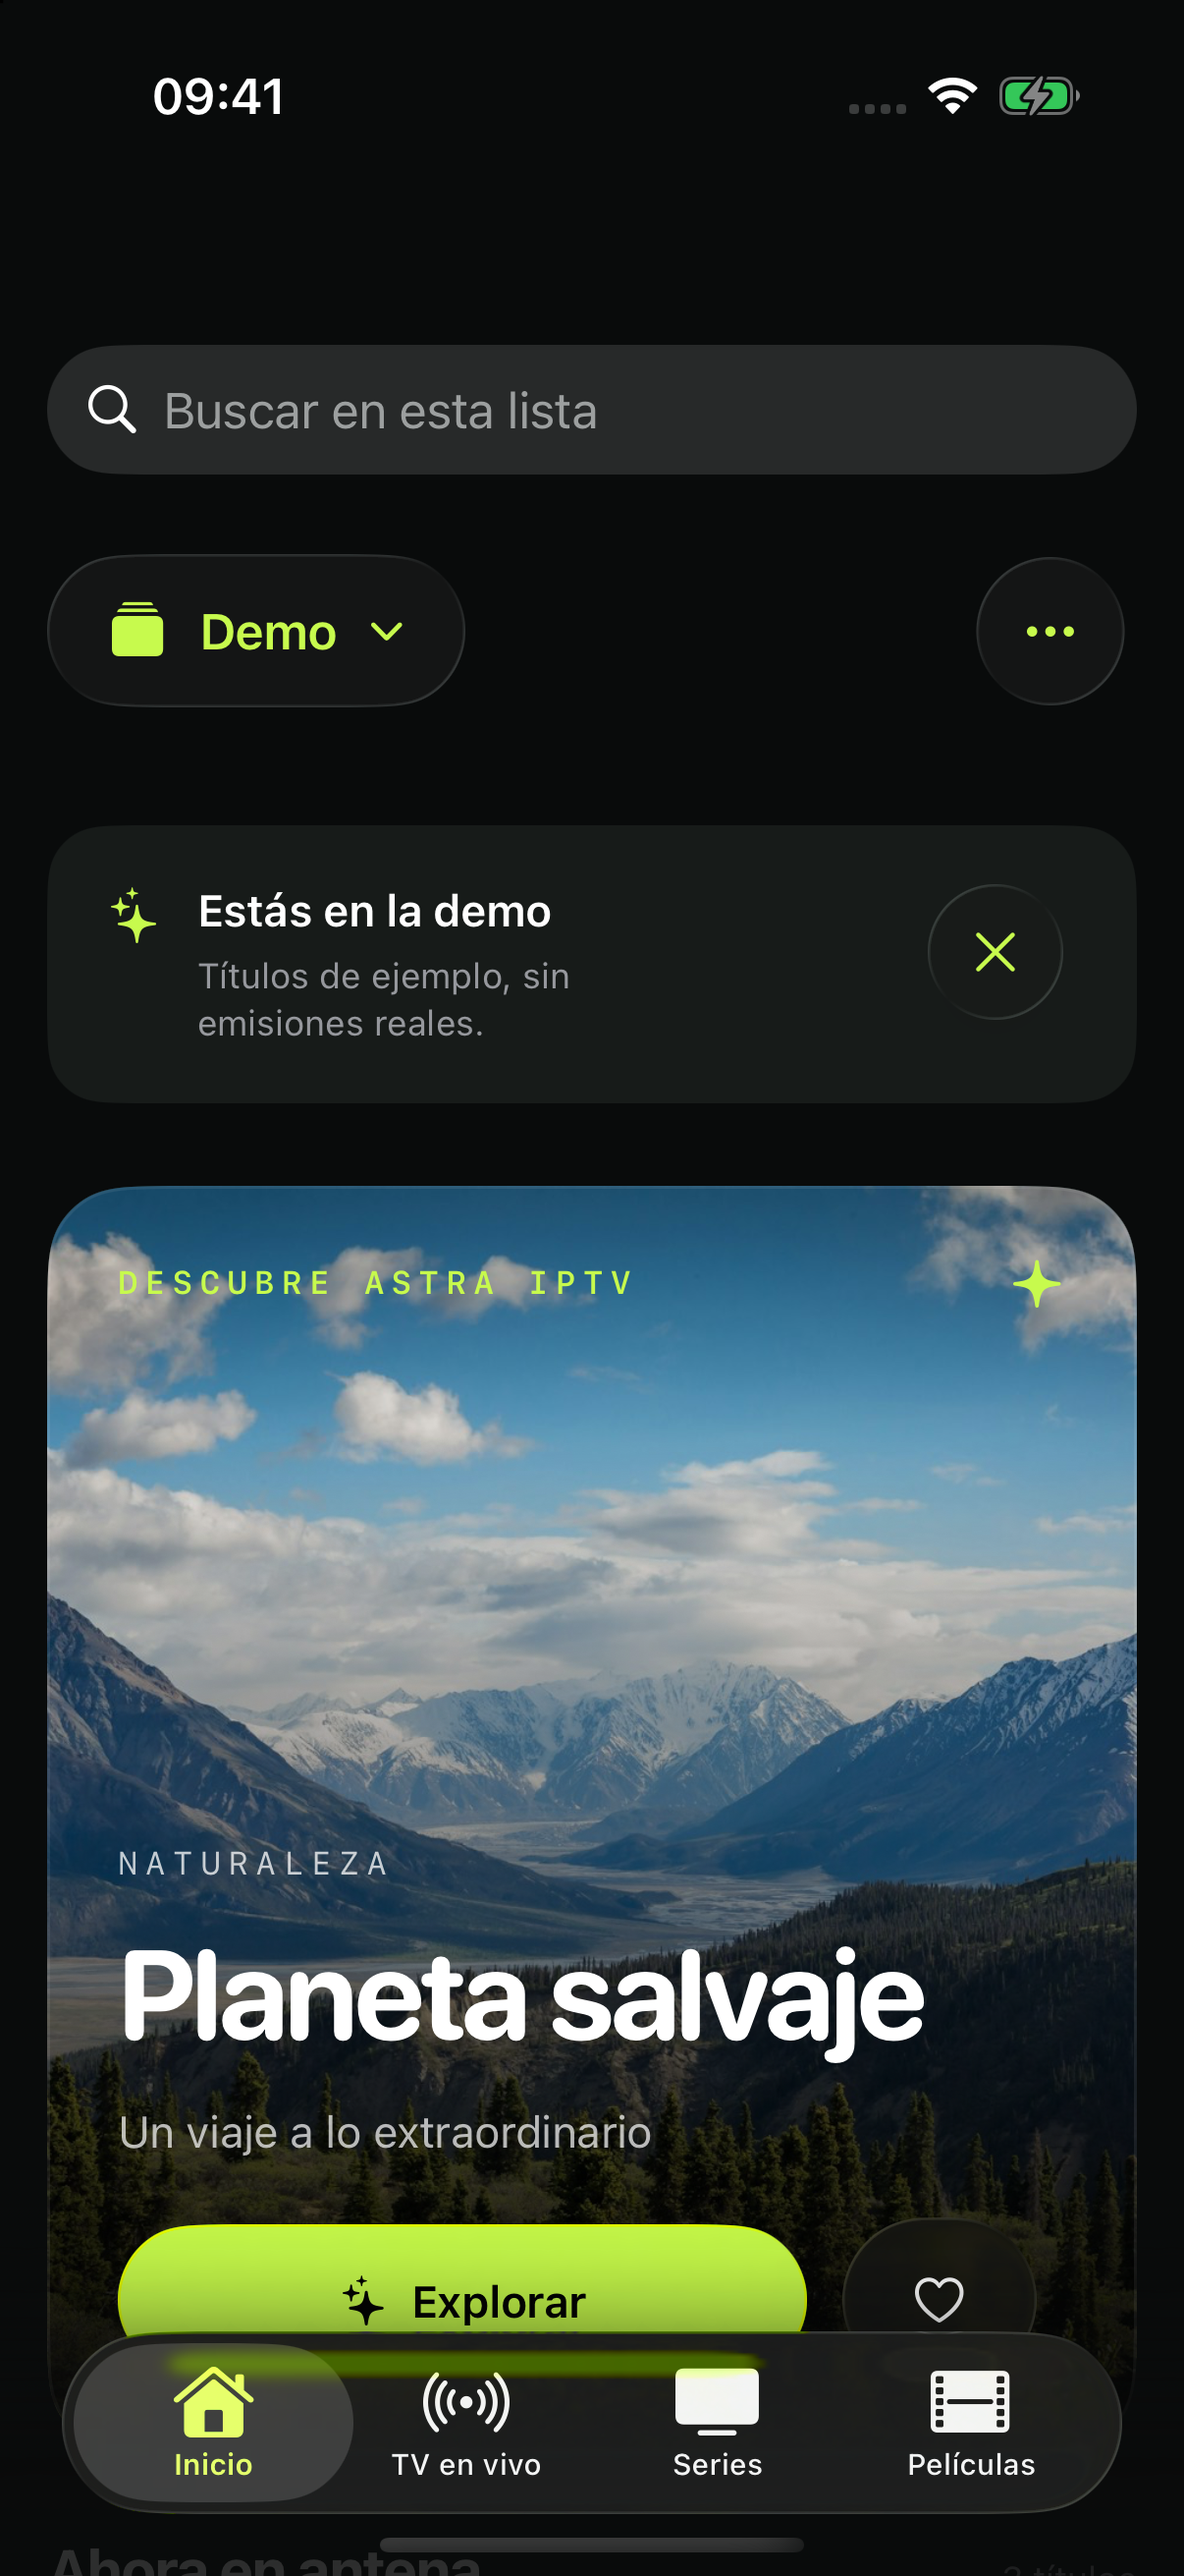
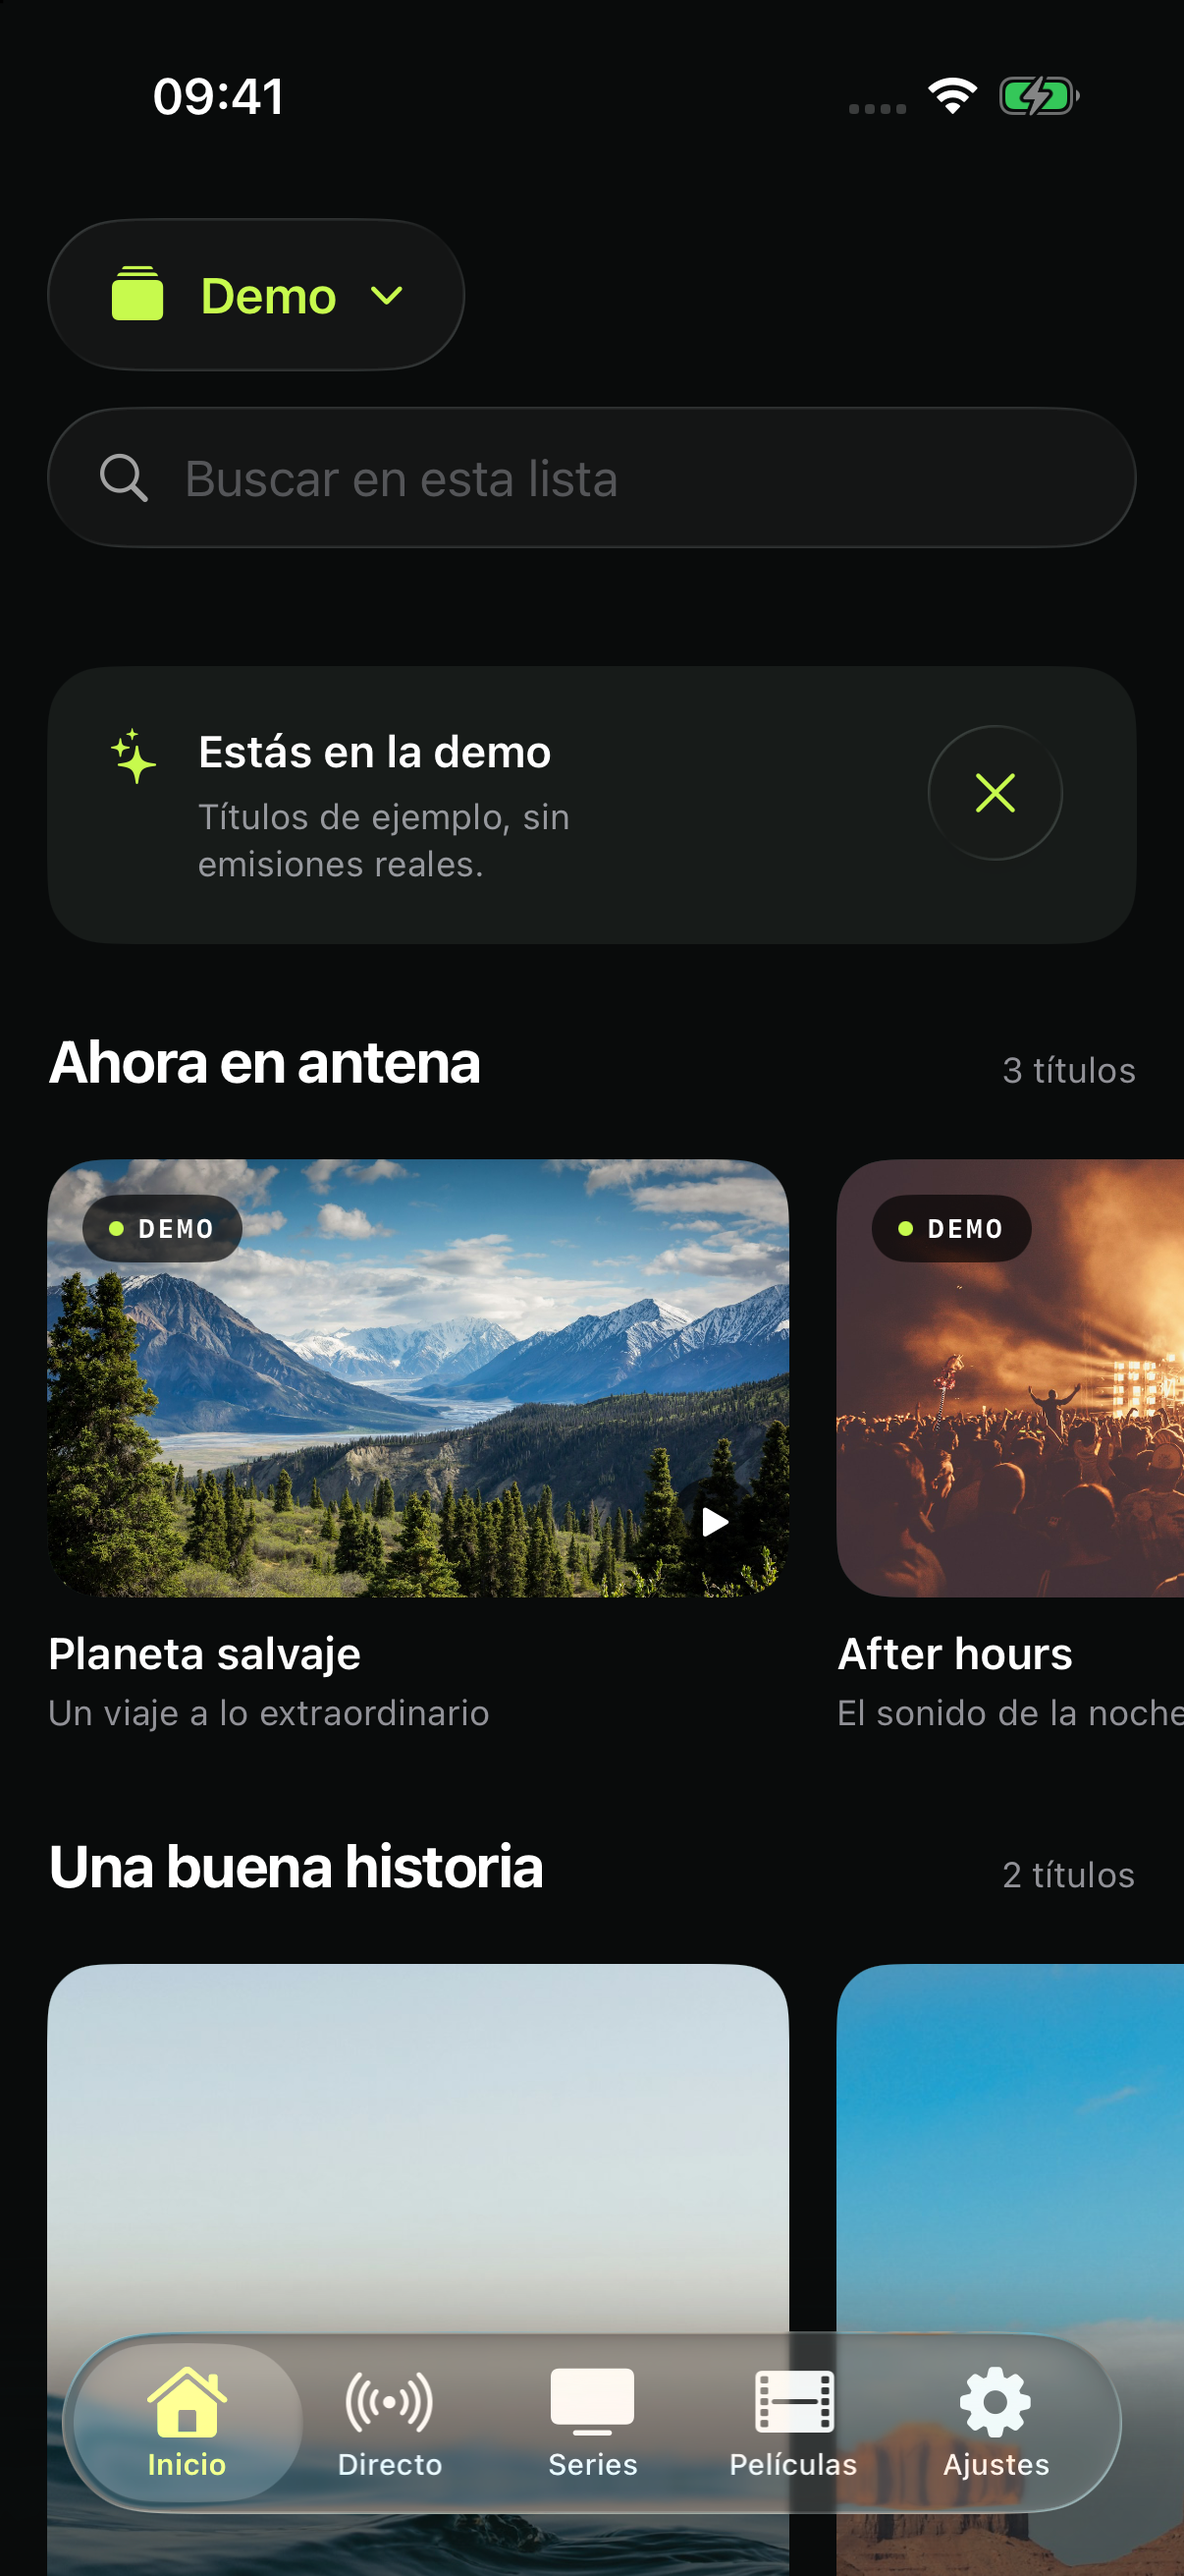
Refresh screenshots from current Apple release UI

diff --git a/styles.css b/styles.css
@@ -1,1 +1,102 @@
-:root{color-scheme:dark;--bg:#080c0b;--surface:#101715;--text:#f3f5ed;--muted:#a8b3ac;--lime:#c7fa49;--line:#29332e}*{box-sizing:border-box}html{scroll-behavior:smooth;scroll-padding-top:30px}body{margin:0;background:var(--bg);color:var(--text);font-family:Inter,-apple-system,BlinkMacSystemFont,"Segoe UI",sans-serif;line-height:1.6}a{color:inherit;text-decoration:none}a:focus-visible,summary:focus-visible{outline:3px solid var(--lime);outline-offset:6px}a:hover{color:var(--lime)}img{display:block;max-width:100%}.wrap{max-width:1200px;margin:auto;padding:0 40px}.skip{position:absolute;top:-100px;left:20px;z-index:10;padding:12px;background:var(--lime);color:#080c0b}.skip:focus{top:12px}header{border-bottom:1px solid var(--line)}.nav{height:96px;display:flex;align-items:center;justify-content:space-between;gap:20px}.brand{display:flex;align-items:center;gap:12px;font-size:22px;font-weight:750;letter-spacing:-.7px}.brand img{width:36px;height:36px;object-fit:contain}.brand span{font-weight:400;color:var(--muted)}nav{display:flex;align-items:center;gap:30px;font-size:13px}nav .language{border:1px solid var(--line);border-radius:30px;padding:7px 14px}.hero{position:relative;isolation:isolate;overflow:hidden;border-bottom:1px solid var(--line)}.hero:before{content:"";position:absolute;inset:0;background:linear-gradient(90deg,rgba(8,12,11,.96) 3%,rgba(8,12,11,.78) 45%,rgba(8,12,11,.3)),linear-gradient(0deg,#080c0b,transparent 65%),url("assets/mountain.jpg") center/cover;z-index:-1;opacity:.7}.hero-grid{display:grid;grid-template-columns:1.2fr .8fr;align-items:center;gap:55px;padding-top:78px;padding-bottom:74px}.eyebrow{font-size:11px;letter-spacing:2px;text-transform:uppercase;color:var(--lime);font-weight:650;margin:0 0 24px}.status{display:inline-flex;align-items:center;gap:9px;font-size:12px;color:#d5ded7;border:1px solid #465044;border-radius:30px;padding:7px 13px;margin-bottom:26px}.status:before{content:"";width:6px;height:6px;background:var(--lime);border-radius:100%}h1{font-size:clamp(48px,5.4vw,74px);line-height:1.02;letter-spacing:-3.5px;font-weight:600;margin:0 0 28px}h1 em{font-style:normal;color:var(--lime)}.lead{font-size:17px;color:#bac5bd;max-width:470px;line-height:1.8}.actions{display:flex;gap:24px;align-items:center;margin-top:32px;flex-wrap:wrap}.button{display:inline-flex;align-items:center;justify-content:center;gap:26px;border-radius:40px;background:var(--lime);color:#162008;padding:14px 23px;font-size:14px;font-weight:650}.button:hover{background:#d8ff80;color:#162008}.text-link{font-size:13px;border-bottom:1px solid #7c897f;padding:7px 0}.availability{font-size:12px;color:var(--muted);margin-top:23px}.hero-visual{position:relative;display:flex;justify-content:center;padding-bottom:10px}.phone{width:252px;border:7px solid #28312e;border-radius:42px;box-shadow:0 32px 75px #0009;overflow:hidden;background:#080c0b;transform:rotate(5deg)}.phone img{width:100%;height:auto}.visual-caption{position:absolute;bottom:-24px;left:0;right:0;text-align:center;font-size:10px;letter-spacing:1px;color:#abb6af}.platforms{display:flex;justify-content:space-between;gap:20px;padding-top:25px;padding-bottom:25px;font-size:13px;color:#a7b3aa;border-bottom:1px solid var(--line)}.platforms strong{color:#edf2e9;font-weight:500}.section{padding-top:96px;padding-bottom:96px;border-bottom:1px solid var(--line)}h2{font-size:clamp(32px,3.6vw,48px);line-height:1.12;letter-spacing:-1.7px;font-weight:550;margin:0 0 22px}h3{font-size:19px;font-weight:550;line-height:1.35;letter-spacing:-.3px}.section-intro{display:grid;grid-template-columns:1.1fr .9fr;gap:60px;align-items:center;margin-bottom:42px}.section-intro p{color:var(--muted);font-size:15px;margin:0}.features{display:grid;grid-template-columns:repeat(3,1fr);gap:30px}.feature{padding-top:24px;border-top:1px solid #46513f}.number{font-size:12px;color:var(--lime);font-family:monospace}.feature p{font-size:14px;color:var(--muted)}.preview{display:grid;grid-template-columns:.8fr 1.2fr;gap:90px;align-items:center}.preview p{font-size:15px;color:var(--muted)}.preview figure{margin:0}.tablet{height:465px;overflow:hidden;border:7px solid #29332d;border-radius:24px;background:#f4f5ee;box-shadow:0 20px 60px #0005}.tablet img{width:100%;height:auto}.preview figcaption{font-size:11px;color:var(--muted);margin-top:18px}.tags{display:flex;gap:10px;margin-top:25px;flex-wrap:wrap}.tags span{font-size:11px;border:1px solid var(--line);padding:6px 12px;border-radius:22px;color:#cbd5cc}.notice{border-left:2px solid var(--lime);padding:10px 0 10px 20px;margin:25px 0!important;font-size:13px!important;color:#e3eadc!important}.integration-status{font-size:11px!important;color:var(--lime)!important;letter-spacing:.5px}.faq{display:grid;grid-template-columns:.8fr 1.2fr;gap:90px}details{border-bottom:1px solid var(--line);padding:20px 0}details:first-child{padding-top:0}summary{cursor:pointer;font-size:16px}details p{font-size:14px;color:var(--muted)}.contact{display:flex;align-items:center;justify-content:space-between;gap:25px;padding-top:58px;padding-bottom:58px}.contact h2{font-size:30px;margin:0 0 10px}.contact p{margin:0;font-size:14px;color:var(--muted)}footer{border-top:1px solid var(--line);padding:25px 0 35px;color:var(--muted);font-size:11px}footer .wrap{display:flex;justify-content:space-between;gap:30px}footer a{text-decoration:underline;text-underline-offset:3px}.footer-note{max-width:650px}::selection{background:var(--lime);color:#080c0b}@media(min-width:1500px){.hero-grid{padding-top:100px;padding-bottom:95px}}@media(max-width:800px){.wrap{padding-left:24px;padding-right:24px}.nav{height:80px}nav{gap:15px}nav .desktop-link{display:none}.hero-grid{gap:24px;padding-top:52px;padding-bottom:55px}.phone{width:210px;border-radius:33px;border-width:6px}h1{font-size:52px;letter-spacing:-2.8px}.lead{font-size:15px}.section{padding-top:65px;padding-bottom:65px}.section-intro,.preview,.tablet{height:370px}.platforms{font-size:11px}}@media(max-width:580px){.hero-grid,.section-intro,.preview,.hero-grid{gap:55px}.hero-copy{max-width:440px}h1{font-size:54px}.hero-visual{padding-bottom:22px}.phone{width:228px;transform:rotate(3deg)}.visual-caption{bottom:-10px}.features{grid-template-columns:1fr;gap:20px}.feature{padding-top:18px}.feature h3{margin:10px 0}.platforms{flex-wrap:wrap;gap:10px 20px}.platforms>span:first-child{width:100%}.section-intro{gap:12px}.tablet{height:440px}.contact{align-items:flex-start;flex-direction:column}footer .wrap{flex-direction:column;gap:12px}}@media(prefers-reduced-motion:reduce){html{scroll-behavior:auto}}
+:root{color-scheme:dark;--bg:#080c0b;--surface:#101715;--text:#f3f5ed;--muted:#a8b3ac;--lime:#c7fa49;--line:#29332e}
+*{box-sizing:border-box}
+html{scroll-behavior:smooth;scroll-padding-top:30px}
+body{margin:0;background:var(--bg);color:var(--text);font-family:Inter,-apple-system,BlinkMacSystemFont,"Segoe UI",sans-serif;line-height:1.6}
+a{color:inherit;text-decoration:none}
+a:focus-visible,summary:focus-visible{outline:3px solid var(--lime);outline-offset:6px}
+a:hover{color:var(--lime)}
+img{display:block;max-width:100%}
+.wrap{max-width:1200px;margin:auto;padding:0 40px}
+.skip{position:absolute;top:-100px;left:20px;z-index:10;padding:12px;background:var(--lime);color:#080c0b}
+.skip:focus{top:12px}
+header{border-bottom:1px solid var(--line)}
+.nav{height:96px;display:flex;align-items:center;justify-content:space-between;gap:20px}
+.brand{display:flex;align-items:center;gap:12px;font-size:22px;font-weight:750;letter-spacing:-.7px}
+.brand img{width:36px;height:36px;object-fit:contain}
+.brand span{font-weight:400;color:var(--muted)}
+nav{display:flex;align-items:center;gap:30px;font-size:13px}
+nav .language{border:1px solid var(--line);border-radius:30px;padding:7px 14px}
+.hero{position:relative;isolation:isolate;overflow:hidden;border-bottom:1px solid var(--line)}
+.hero:before{content:"";position:absolute;inset:0;background:linear-gradient(90deg,rgba(8,12,11,.96) 3%,rgba(8,12,11,.78) 45%,rgba(8,12,11,.3)),linear-gradient(0deg,#080c0b,transparent 65%),url("assets/mountain.jpg") center/cover;z-index:-1;opacity:.7}
+.hero-grid{display:grid;grid-template-columns:1.2fr .8fr;align-items:center;gap:55px;padding-top:78px;padding-bottom:74px}
+.eyebrow{font-size:11px;letter-spacing:2px;text-transform:uppercase;color:var(--lime);font-weight:650;margin:0 0 24px}
+.status{display:inline-flex;align-items:center;gap:9px;font-size:12px;color:#d5ded7;border:1px solid #465044;border-radius:30px;padding:7px 13px;margin-bottom:26px}
+.status:before{content:"";width:6px;height:6px;background:var(--lime);border-radius:100%}
+h1{font-size:clamp(48px,5.4vw,74px);line-height:1.02;letter-spacing:-3.5px;font-weight:600;margin:0 0 28px}
+h1 em{font-style:normal;color:var(--lime)}
+.lead{font-size:17px;color:#bac5bd;max-width:470px;line-height:1.8}
+.actions{display:flex;gap:24px;align-items:center;margin-top:32px;flex-wrap:wrap}
+.button{display:inline-flex;align-items:center;justify-content:center;gap:26px;border-radius:40px;background:var(--lime);color:#162008;padding:14px 23px;font-size:14px;font-weight:650}
+.button:hover{background:#d8ff80;color:#162008}
+.availability{font-size:12px;color:var(--muted);margin-top:23px}
+.hero-visual{position:relative;display:flex;justify-content:center;padding-bottom:10px}
+.phone{width:252px;border:7px solid #28312e;border-radius:42px;box-shadow:0 32px 75px #0009;overflow:hidden;background:#080c0b;transform:rotate(5deg)}
+.phone img{width:100%;height:auto}
+.visual-caption{position:absolute;bottom:-24px;left:0;right:0;text-align:center;font-size:10px;letter-spacing:1px;color:#abb6af}
+.platforms{display:flex;justify-content:space-between;gap:20px;padding-top:25px;padding-bottom:25px;font-size:13px;color:#a7b3aa;border-bottom:1px solid var(--line)}
+.platforms strong{color:#edf2e9;font-weight:500}
+.section{padding-top:96px;padding-bottom:96px;border-bottom:1px solid var(--line)}
+h2{font-size:clamp(32px,3.6vw,48px);line-height:1.12;letter-spacing:-1.7px;font-weight:550;margin:0 0 22px}
+h3{font-size:19px;font-weight:550;line-height:1.35;letter-spacing:-.3px}
+.section-intro{display:grid;grid-template-columns:1.1fr .9fr;gap:60px;align-items:center;margin-bottom:42px}
+.section-intro p{color:var(--muted);font-size:15px;margin:0}
+.features{display:grid;grid-template-columns:repeat(3,1fr);gap:30px}
+.feature{padding-top:24px;border-top:1px solid #46513f}
+.number{font-size:12px;color:var(--lime);font-family:monospace}
+.feature p{font-size:14px;color:var(--muted)}
+.preview{display:grid;grid-template-columns:.8fr 1.2fr;gap:90px;align-items:center}
+.preview p{font-size:15px;color:var(--muted)}
+.preview figure{margin:0}
+.tablet{height:465px;overflow:hidden;border:7px solid #29332d;border-radius:24px;background:#f4f5ee;box-shadow:0 20px 60px #0005}
+.tablet img{width:100%;height:auto}
+.preview figcaption{font-size:11px;color:var(--muted);margin-top:18px}
+.tags{display:flex;gap:10px;margin-top:25px;flex-wrap:wrap}
+.tags span{font-size:11px;border:1px solid var(--line);padding:6px 12px;border-radius:22px;color:#cbd5cc}
+.faq{display:grid;grid-template-columns:.8fr 1.2fr;gap:90px}
+details{border-bottom:1px solid var(--line);padding:20px 0}
+details:first-child{padding-top:0}
+summary{cursor:pointer;font-size:16px}
+details p{font-size:14px;color:var(--muted)}
+.contact{display:flex;align-items:center;justify-content:space-between;gap:25px;padding-top:58px;padding-bottom:58px}
+.contact h2{font-size:30px;margin:0 0 10px}
+.contact p{margin:0;font-size:14px;color:var(--muted)}
+footer{border-top:1px solid var(--line);padding:25px 0 35px;color:var(--muted);font-size:11px}
+footer .wrap{display:flex;justify-content:space-between;gap:30px}
+footer a{text-decoration:underline;text-underline-offset:3px}
+.footer-note{max-width:650px}
+::selection{background:var(--lime);color:#080c0b}
+@media(min-width:1500px){.hero-grid{padding-top:100px;padding-bottom:95px}
+}
+@media(max-width:800px){.wrap{padding-left:24px;padding-right:24px}
+.nav{height:80px}
+nav{gap:15px}
+nav .desktop-link{display:none}
+.hero-grid{gap:24px;padding-top:52px;padding-bottom:55px}
+.phone{width:210px;border-radius:33px;border-width:6px}
+h1{font-size:52px;letter-spacing:-2.8px}
+.lead{font-size:15px}
+.section{padding-top:65px;padding-bottom:65px}
+.section-intro,.preview,.faq{gap:36px}
+.tablet{height:370px}
+.platforms{font-size:11px}
+}
+@media(max-width:580px){.hero-grid,.section-intro,.preview,.faq{grid-template-columns:1fr}
+.hero-grid{gap:55px}
+.hero-copy{max-width:440px}
+h1{font-size:54px}
+.hero-visual{padding-bottom:22px}
+.phone{width:228px;transform:rotate(3deg)}
+.visual-caption{bottom:-10px}
+.features{grid-template-columns:1fr;gap:20px}
+.feature{padding-top:18px}
+.feature h3{margin:10px 0}
+.platforms{flex-wrap:wrap;gap:10px 20px}
+.platforms>span:first-child{width:100%}
+.section-intro{gap:12px}
+.tablet{height:440px}
+.contact{align-items:flex-start;flex-direction:column}
+footer .wrap{flex-direction:column;gap:12px}
+}
+@media(prefers-reduced-motion:reduce){html{scroll-behavior:auto}
+}
+

diff --git a/README.md b/README.md
@@ -13,6 +13,6 @@ GitHub Pages publishes the root of `main` after each push. This public repositor
 
 ## Assets and project status
 
-Screenshots show the app's demo mode with fictional titles, not bundled streams. The Apple app is not yet available on the App Store.
+Screenshots were captured on 2026-09-27 from the current Apple release build (app commit `6acf104`) on iPhone and iPad simulators. They show the app's demo mode with fictional titles, not bundled streams. The Apple app is not yet available on the App Store.
 
 The Astra brand assets and demo screenshots belong to the project. Demo photography is from Unsplash; the mountain photograph is https://images.unsplash.com/photo-1464822759023-fed622ff2c3b.
